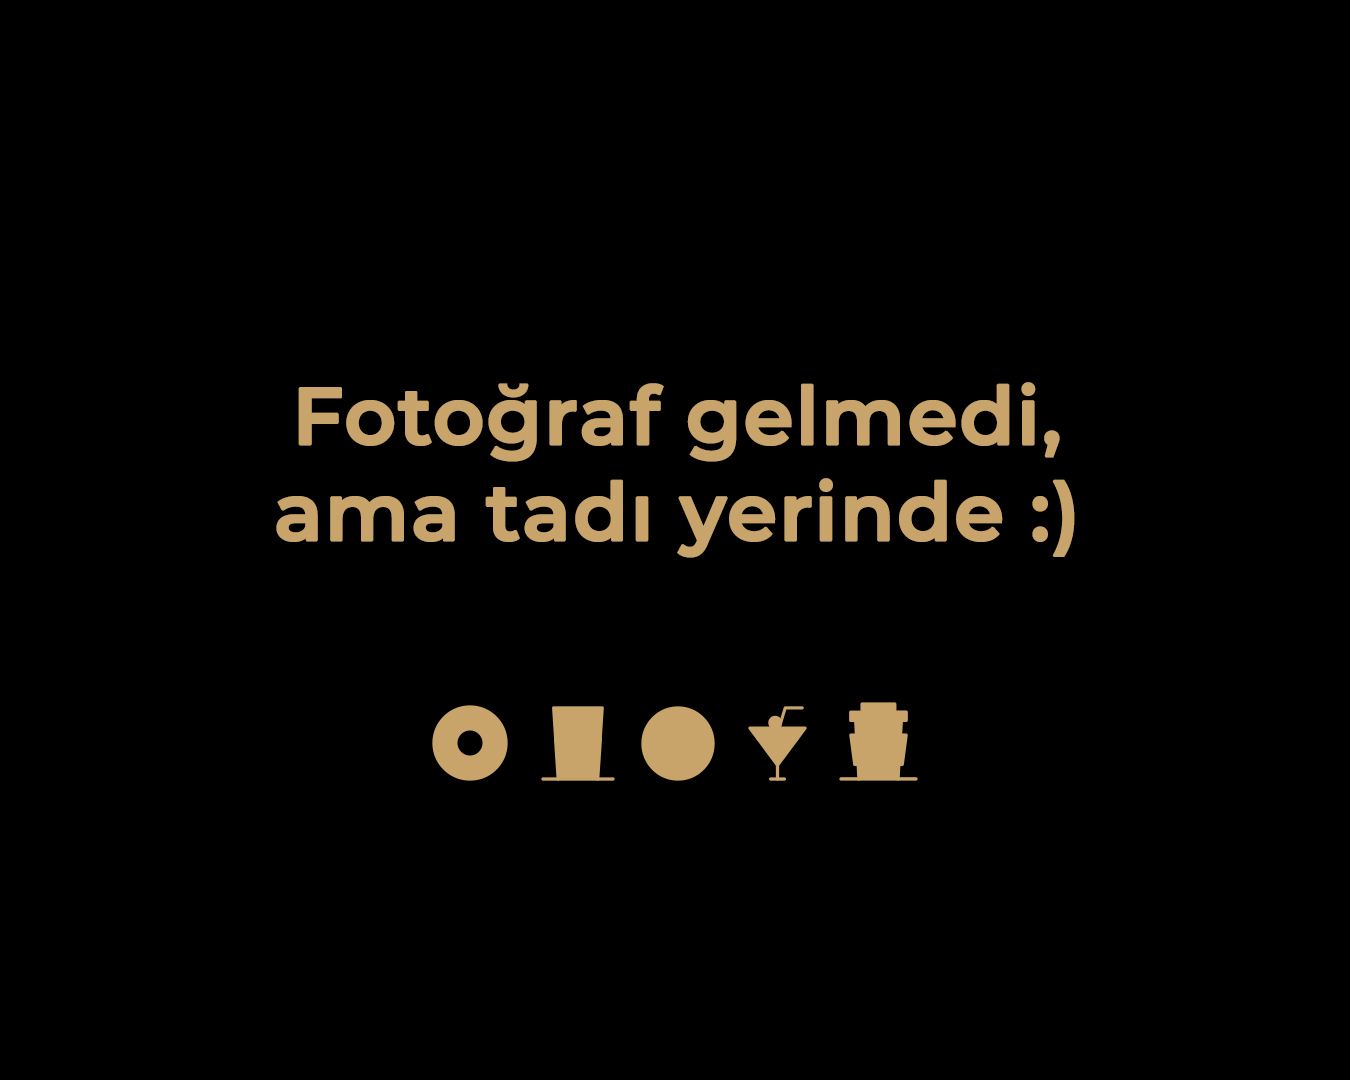
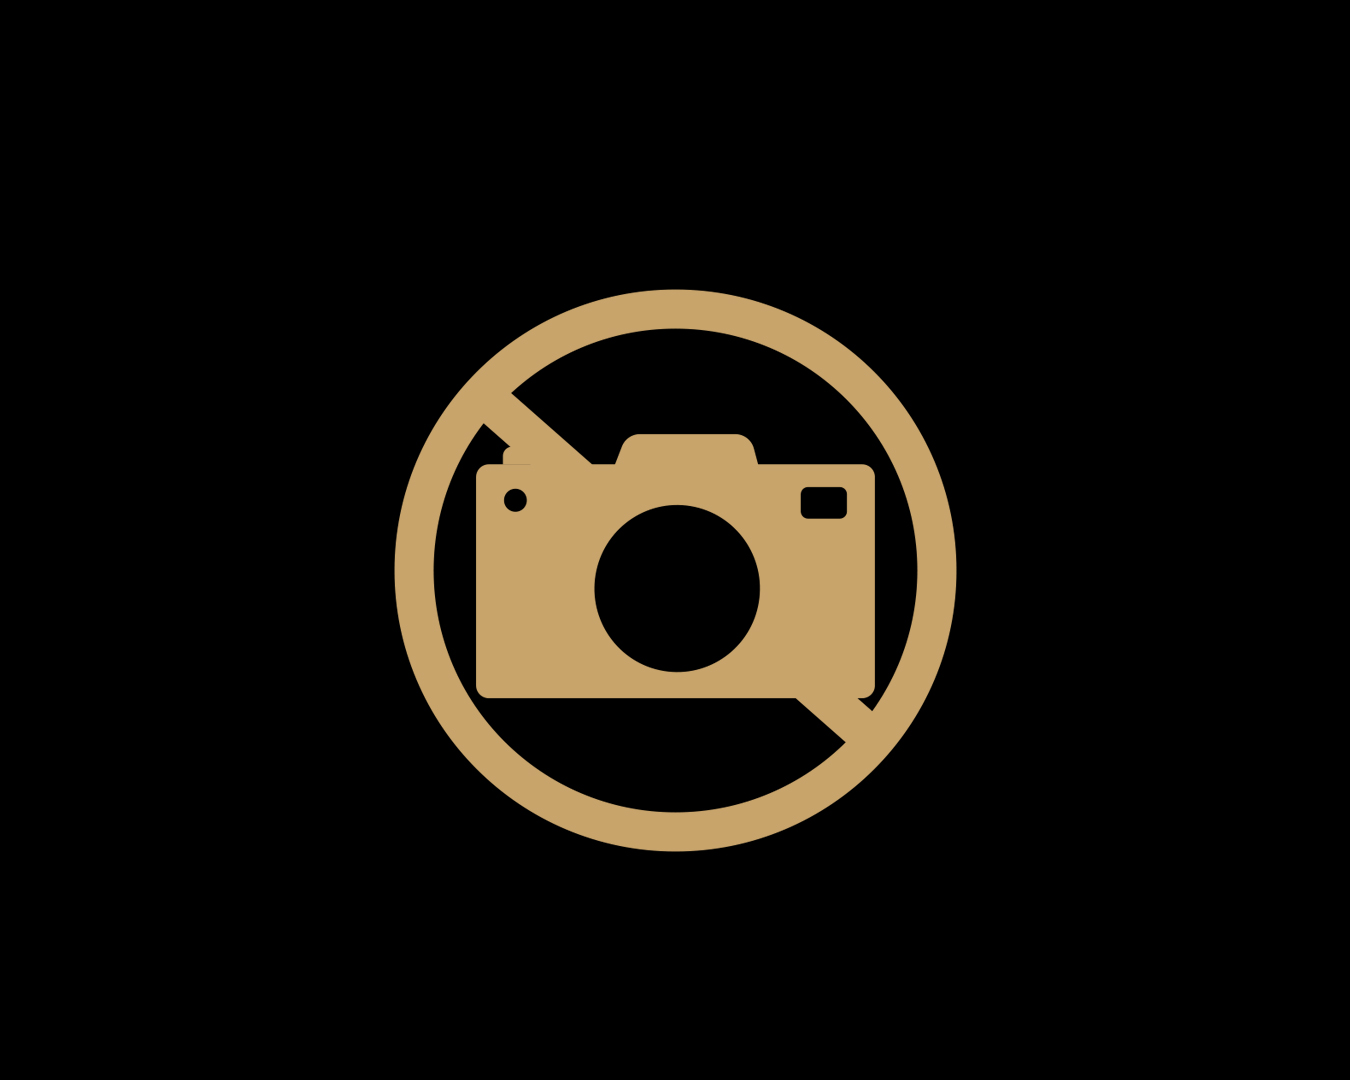
22 Şubat 13:40

Changed region(s): [[0.1867, 0.2444, 0.8089, 0.7944]]

diff --git a/src/app/services/product-service.ts b/src/app/services/product-service.ts
@@ -41,7 +41,7 @@ export class ProductService {
 
     { productId: 26, categoryName: 'tostlar', productName: '4 Peynirli Tost', description: ' Tost ekmeği arasında rende kaşar peyniri, cheddar peyniri, beyaz peyniri yanında söğüş(domates,salatalık,zeytin), patates cips ve dip sos ile servis edilir.', tooltip: 'En çok satan', price: 265, image: '4-peynirli-tost.jpg' },
     { productId: 27, categoryName: 'tostlar', productName: 'Bazlama Tost', description: 'Bazlama ekmeği arasında özel sos, kaşar peyniri, sucuk, yumurta, yanında söğüş(domates,salatalık,zeytin), patates cips ve dip sos ile servis edilir.', tooltip: 'En çok satan', price: 290, image: 'bazlama-tost.jpg' },
-    { productId: 28, categoryName: 'tostlar', productName: 'Tavuklu Bazlama', description: 'Bazlama ekmeği arasında domates soslu jülyen tavuk dilimleri, renkli biberler, mantar, bazlama ekmeği üzerinde beşamel sos ve rende kaşar peyniri, yanında patates cips, dip sos ve maskolin salata ile servis edilir.', tooltip: 'En çok satan', price: 390, image: 'tavuk - bazlama.jpg' },
+    { productId: 28, categoryName: 'bazlamalar', productName: 'Tavuklu Bazlama', description: 'Bazlama ekmeği arasında domates soslu jülyen tavuk dilimleri, renkli biberler, mantar, bazlama ekmeği üzerinde beşamel sos ve rende kaşar peyniri, yanında patates cips, dip sos ve maskolin salata ile servis edilir.', tooltip: 'En çok satan', price: 390, image: 'tavuk-bazlama.jpg' },
 
     { productId: 29, categoryName: 'gözlemeler', productName: 'Alaturka Gözleme', description: 'Taze yufka arasında rende kaşar peyniri, sucuk ve renkli biberler, yanında söğüş(domates,salatalık,zeytin),  patates cips ve dip sos ile servis edilir.', tooltip: 'En çok satan', price: 290, image: 'alaturka-gözleme.jpg' },
     { productId: 30, categoryName: 'gözlemeler', productName: 'Bolu Usulü Gözleme', description: 'Taze yufka arasında rende kaşar peyniri, kıyma, köz patlıcan, yanında söğüş(domates,salatalık,zeytin) , patates cips ve dip sos ile servis edilir.', tooltip: 'En çok satan', price: 350, image: 'bolu-usülü-gözleme.jpg' },
@@ -51,13 +51,12 @@ export class ProductService {
     { productId: 33, categoryName: 'atıştırmalıklar', productName: 'Bonfrit', description: 'Kızarmış baharatlı parmak patatesler, dip sos ile servis edilir.', tooltip: 'En çok satan', price: 180, image: 'patates-atıştırmalık.jpg' },
     { productId: 34, categoryName: 'atıştırmalıklar', productName: 'Soğan Halkası', description: 'Panelenmiş çıtır soğan, patates cips ve dip sos ile servis edilir.', tooltip: 'En çok satan', price: 220, image: 'soğan-halkası-atıştırmalık.jpg' },
 
-    { productId: 35, categoryName: 'meşrubatlar', productName: 'Coca Cola', description: 'Buz gibi servis edilen ferahlatıcı kola.', tooltip: 'En çok satan', price: 60, image: 'içecekler-1.jpg' },
+    { productId: 35, categoryName: 'meşrubatlar', productName: 'Kutu Cola', description: 'Buz gibi servis edilen ferahlatıcı kola.', tooltip: 'En çok satan', price: 80, image: 'içecekler-1.jpg' },
     { productId: 36, categoryName: 'meşrubatlar', productName: 'Fanta', description: 'Portakal aromalı, serinletici gazlı içecek.', tooltip: 'En çok satan', price: 60, image: 'içecekler-2.jpg' },
-    { productId: 37, categoryName: 'meşrubatlar', productName: 'Schweppes', description: 'Kendine özgü aromasıyla ferahlatıcı gazlı içecek.', tooltip: 'En çok satan', price: 60, image: 'içecekler-3.jpg' },
-    { productId: 38, categoryName: 'meşrubatlar', productName: 'Fuse Tea Mango', description: 'Egzotik mango aromalı soğuk çay.', tooltip: 'En çok satan', price: 60, image: 'içecekler-4.jpg' },
-    { productId: 39, categoryName: 'meşrubatlar', productName: 'Fuse Tea Karpuz', description: 'Yaz ferahlığı sunan karpuz aromalı soğuk çay.', tooltip: 'En çok satan', price: 40, image: 'içecekler-5.jpg' },
-    { productId: 41, categoryName: 'meşrubatlar', productName: 'Fuse Tea Şeftali', description: 'Doğal şeftali aromasıyla hafif ve ferah.', tooltip: 'En çok satan', price: 60, image: 'içecekler-6.jpg' },
-    { productId: 42, categoryName: 'meşrubatlar', productName: 'Fuse Tea Limon', description: 'Limon aromalı, serinletici soğuk çay.', tooltip: 'En çok satan', price: 60, image: 'içecekler-7.jpg' },
+    { productId: 38, categoryName: 'meşrubatlar', productName: 'Fuse Tea Mango', description: 'Egzotik mango aromalı soğuk çay.', tooltip: 'En çok satan', price: 70, image: 'içecekler-4.jpg' },
+    { productId: 39, categoryName:'meşrubatlar', productName: 'Fuse Tea Karpuz', description: 'Yaz ferahlığı sunan karpuz aromalı soğuk çay.', tooltip: 'En çok satan', price: 70, image: 'içecekler-5.jpg' },
+    { productId: 41, categoryName: 'meşrubatlar', productName: 'Fuse Tea Şeftali', description: 'Doğal şeftali aromasıyla hafif ve ferah.', tooltip: 'En çok satan', price: 70, image: 'içecekler-6.jpg' },
+    { productId: 42, categoryName: 'meşrubatlar', productName: 'Fuse Tea Limon', description: 'Limon aromalı, serinletici soğuk çay.', tooltip: 'En çok satan', price: 70, image: 'içecekler-7.jpg' },
 
     { productId: 43, categoryName: 'makarnalar', productName: 'Çıtır Mantı', description: 'Haşlanmış dana etli mantılar, derin yağda kızarmış şekilde sarımsaklı yoğurt ve tereyağlı özel sos ile servis edilir.', tooltip: 'En çok satan', price: 300, image: 'çıtır - mantı.jpg' },
 

diff --git a/src/app/components/product-component/product-component.ts b/src/app/components/product-component/product-component.ts
@@ -1,4 +1,4 @@
-import { Component,OnInit } from '@angular/core';
+import { Component, OnInit } from '@angular/core';
 import { ProductService } from '../../services/product-service';
 import { Product } from '../../models/productModel';
 import { ActivatedRoute } from '@angular/router';
@@ -8,7 +8,7 @@ import { NgModule } from '@angular/core';
 
 @Component({
   selector: 'app-product-component',
-  imports: [CommonModule,RouterModule],
+  imports: [CommonModule, RouterModule],
   templateUrl: './product-component.html',
   styleUrl: './product-component.css',
 })
@@ -16,65 +16,64 @@ import { NgModule } from '@angular/core';
 export class ProductComponent implements OnInit {
   products: Product[] = [];
 
-    constructor(private route: ActivatedRoute, private productService: ProductService) {}
+  constructor(private route: ActivatedRoute, private productService: ProductService) { }
   activeKey: string = ''; // Sidebar hangi kategori aktif
 
-categoryNameMap: { [key: string]: string } = {
-  'ana-yemekler': 'Ana Yemekler',
-  'kahvaltı': 'Kahvaltı',
-  'burgerler': 'Burgerler',
-  'makarnalar': 'Makarnalar',
-  'salatalar':"Salatalar",
-  'wrapler':"Wrapler",
-  'kruvasan-sandwichler':"Kruvasan  Sandwichler",
-  'tatlılar':"Tatlılar",
-  'special-sıcaklar':"Special Sıcaklar",
-  'special-soğuklar':"Special Soğuklar",
-   'ekstralar':"Ekstralar",
-   'bitki-çayları':"Bitki Çayları",
-   'dondurmalar':"Dondurmalar",
-   'sıcak-içecekler':"Sıcak İçecekler",
-   'soğuk-içecekler':"Soğuk İçecekler",
-  'bowllar':"Bowllar",
-   'tostlar':"Tostlar",
-   'bazlamalar':"Bazlamalar",
-   'gözlemeler':"Gözlemeler", 
-   'atıştırmalıklar':"Atıştırmalıklar",
-   'milkshakeler':"Milkshakeler",
-   'sıcak-kahveler':"Sıcak Kahveler",
-   'soğuk-kahveler':"Soğuk Kahveler",
-   'çaylar':"Çaylar",
-   'meşrubatlar':"Meşrubatlar",
-   'pizzalar':"Pizzalar",
-     
+  categoryNameMap: { [key: string]: string } = {
+    'ana-yemekler': 'Ana Yemekler',
+    'kahvaltı': 'Kahvaltı',
+    'burgerler': 'Burgerler',
+    'makarnalar': 'Makarnalar',
+    'salatalar': "Salatalar",
+    'wrapler': "Wrapler",
+    'kruvasan-sandwichler': "Kruvasan  Sandwichler",
+    'sıcak-kahveler': "Sıcak Kahveler",
+    'soğuk-kahveler': "Soğuk Kahveler",
+    'tatlılar': "Tatlılar",
+    'bowllar': "Bowllar",
+    'tostlar': "Tostlar",
+    'bazlamalar': "Bazlamalar",
+    'gözlemeler': "Gözlemeler",
+    'pizzalar': "Pizzalar",
+    'atıştırmalıklar': "Atıştırmalıklar",
+    'special-sıcaklar': "Special Sıcaklar",
+    'special-soğuklar': "Special Soğuklar",
+    'ekstralar': "Ekstralar",
+    'bitki-çayları': "Bitki Çayları",
+    'dondurmalar': "Dondurmalar",
+    'sıcak-içecekler': "Sıcak İçecekler",
+    'soğuk-içecekler': "Soğuk İçecekler",
+    'milkshakeler': "Milkshakeler",
+    'çaylar': "Çaylar",
+    'meşrubatlar': "Meşrubatlar",
 
-};
+  };
 
-categories: { key: string; label: string }[] = [];
-
-
-     ngOnInit(): void {
-
- this.categories = Object.keys(this.categoryNameMap).map(key => ({
-    key,
-    label: this.categoryNameMap[key]
-  }));
+  categories: { key: string; label: string }[] = [];
 
 
-      
-  this.route.params.subscribe(params => {
-    this.activeKey = params['name']; // burgers, snacks, desserts vs
+  ngOnInit(): void {
 
-    if (this.activeKey) {
-      this.loadProducts(this.activeKey); // kategori varsa
-    } else {
-      this.products = this.productService.getAll(); // kategori yoksa tüm ürünleri göster
-    }
-  });
-}
+    this.categories = Object.keys(this.categoryNameMap).map(key => ({
+      key,
+      label: this.categoryNameMap[key]
+    }));
 
 
- loadProducts(category: string) {
+
+    this.route.params.subscribe(params => {
+      this.activeKey = params['name']; // burgers, snacks, desserts vs
+
+      if (this.activeKey) {
+        this.loadProducts(this.activeKey); // kategori varsa
+      } else {
+        this.products = this.productService.getAll(); // kategori yoksa tüm ürünleri göster
+      }
+    });
+  }
+
+
+  loadProducts(category: string) {
     this.products = this.productService.getByCategory(category);
   }
 
